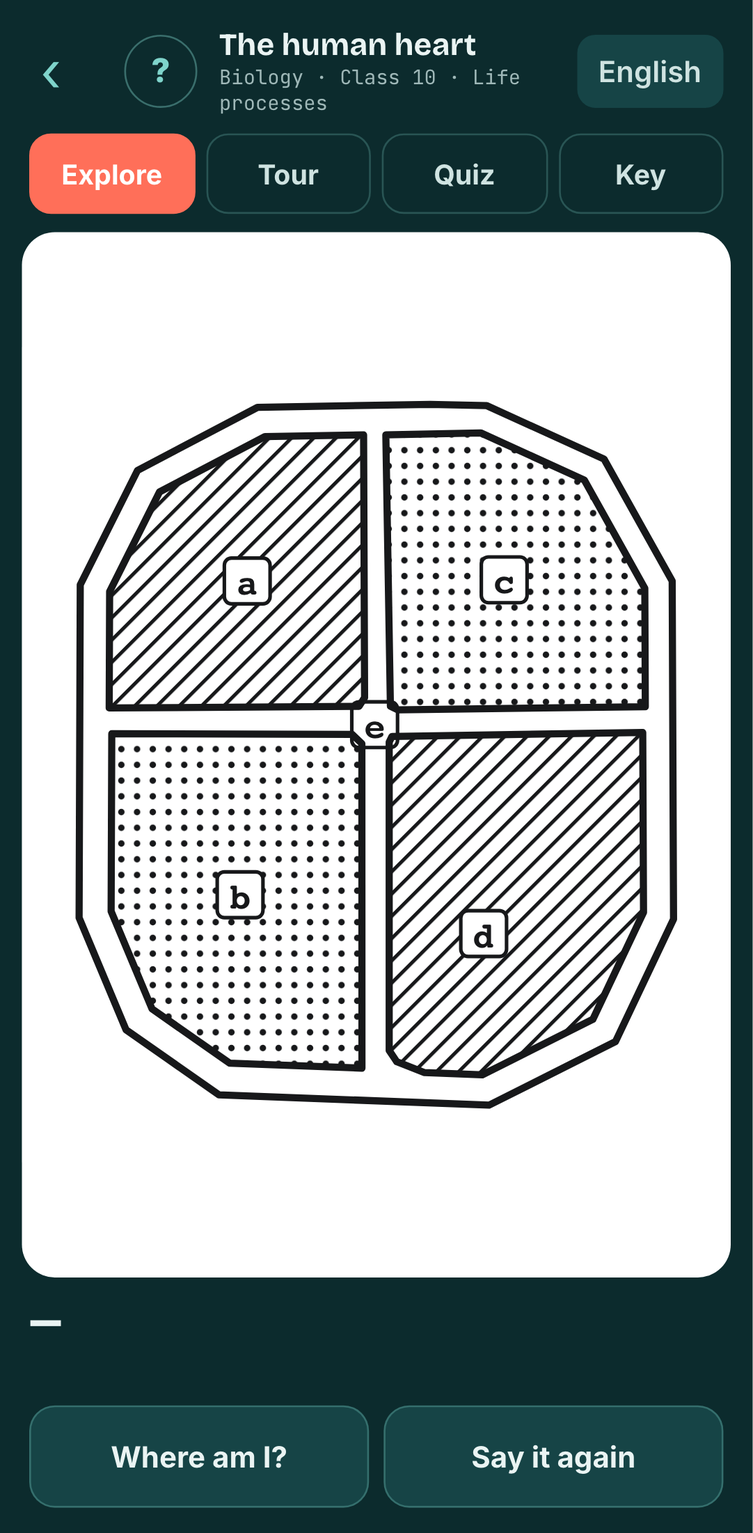
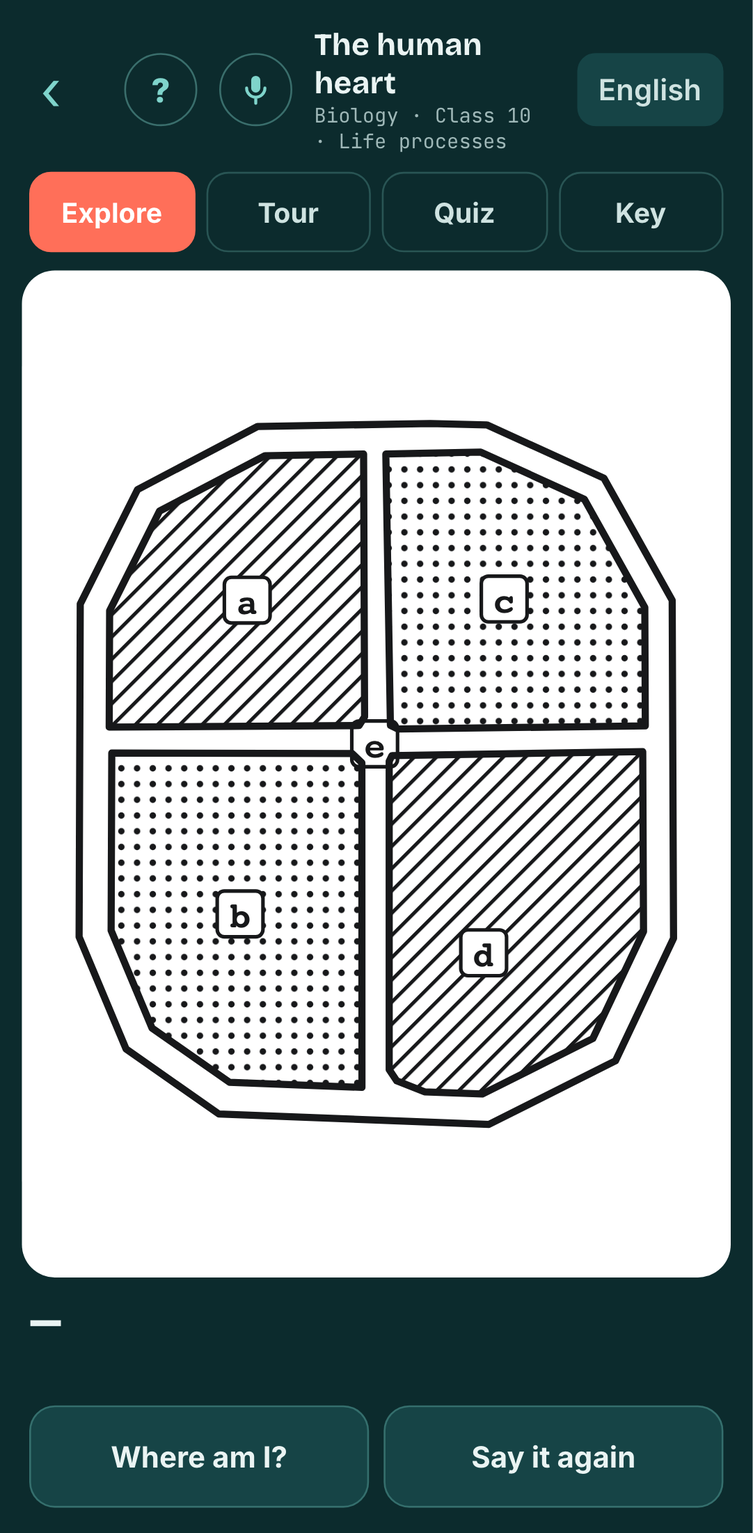
Spoken commands: hold two fingers or the mic

Changed region(s): [[0.0915, 0.247, 0.915, 0.7411], [0.0305, 0.0, 0.976, 0.1853]]

diff --git a/app/src/i18n/strings.ts b/app/src/i18n/strings.ts
@@ -23,7 +23,7 @@ type Dict = {
   textures: Record<Texture, string>
   samples: string; mine: string; nothingYet: string; importFile: string; tapToOpen: string
   bestScore: (found: number, total: number) => string
-  touchToStart: string; touchAgain: string; tagline: string; g1: string; g2: string; g3: string; g4: string; intro: string; help: string; gestures: string; modeIs: (m: string) => string; speakFirst: string; speakFirstOn: string; speakFirstOff: string; soundOn: string; soundOff: string; sound: string; contrast: string; contrastOn: string; contrastOff: string
+  listening: string; notHeard: string; voiceNeedsNet: string; voiceHelp: string; touchToStart: string; touchAgain: string; tagline: string; g1: string; g2: string; g3: string; g4: string; intro: string; help: string; gestures: string; modeIs: (m: string) => string; speakFirst: string; speakFirstOn: string; speakFirstOff: string; soundOn: string; soundOff: string; sound: string; contrast: string; contrastOn: string; contrastOff: string
   classRoom: string; joinClass: string; roomCode: string; whoAreYou: string; thisIsMe: string; notMe: string; waitingRoster: string; joinedRoom: (room: string) => string; youAre: (name: string) => string
 }
 
@@ -50,9 +50,9 @@ const en: Dict = {
   textures: { dots: 'dots', 'diagonal-lines': 'diagonal lines', 'horizontal-lines': 'horizontal lines', grid: 'grid', solid: 'solid', empty: 'outline' },
   samples: 'Sample diagrams', mine: 'From my teacher', nothingYet: 'Nothing from your teacher yet. Join the class with the code on the board, or start with a sample.', importFile: 'Open a diagram file', tapToOpen: 'Tap to open',
   bestScore: (f, t) => `best ${f} of ${t}`,
-  touchToStart: 'Touch anywhere to start', touchAgain: 'Touch again to begin', tagline: 'Diagrams you can touch, hear and be quizzed on.', g1: 'One finger: feel the parts. Rest to hear.', g2: 'Two fingers, swipe: change mode.', g3: 'Two fingers, double-tap: where am I.', g4: 'Three fingers, tap: change language.',
-  intro: 'TouchSight. Touch anything once to hear what it is, touch it again to use it. On a diagram, move one finger to feel the parts; rest it to hear the name. Swipe with two fingers to change between explore, tour, quiz and key. Double-tap with two fingers to hear where you are. Tap with three fingers to change the language.',
-  help: 'Help', gestures: 'Two fingers swipe: change mode. Two fingers double-tap: where am I. Three fingers tap: change language.',
+  listening: 'Listening.', notHeard: 'I did not catch that.', voiceNeedsNet: 'Voice needs a network connection. The gestures work offline.', voiceHelp: 'Say: where am I, what does it do, explore, tour, quiz, key, repeat, next, previous, library, Hindi, Punjabi, English.', touchToStart: 'Touch anywhere to start', touchAgain: 'Touch again to begin', tagline: 'Diagrams you can touch, hear and be quizzed on.', g1: 'One finger: feel the parts. Rest to hear.', g2: 'Two fingers, swipe: change mode. Hold: speak a command.', g3: 'Two fingers, double-tap: where am I.', g4: 'Three fingers, tap: change language.',
+  intro: 'TouchSight. Touch anything once to hear what it is, touch it again to use it. On a diagram, move one finger to feel the parts; rest it to hear the name, keep resting to hear what it does. Swipe with two fingers to change between explore, tour, quiz and key. Double-tap with two fingers to hear where you are. Hold two fingers still to speak a command. Tap with three fingers to change the language.',
+  help: 'Help', gestures: 'Two fingers swipe: change mode. Two fingers double-tap: where am I. Two fingers held: speak a command. Three fingers tap: change language.',
   modeIs: (m) => `${m}.`, speakFirst: 'Touch to hear first', speakFirstOn: 'Touch to hear first is on. Touch once to hear, twice to use.', speakFirstOff: 'Touch to hear first is off. Controls act on the first touch.',
   sound: 'Sound', soundOn: 'Sound on. A tone follows your finger: higher up the sheet, higher the note. Each texture has its own voice.', soundOff: 'Sound off.',
   contrast: 'High contrast', contrastOn: 'High contrast on.', contrastOff: 'High contrast off.',
@@ -80,7 +80,7 @@ const hi: Dict = {
   textures: { dots: 'बिंदु', 'diagonal-lines': 'तिरछी रेखाएँ', 'horizontal-lines': 'आड़ी रेखाएँ', grid: 'जाली', solid: 'भरा हुआ', empty: 'रूपरेखा' },
   samples: 'नमूना आरेख', mine: 'मेरे शिक्षक से', nothingYet: 'शिक्षक से अभी कुछ नहीं आया। बोर्ड पर लिखे कोड से कक्षा से जुड़ें, या नमूने से शुरू करें।', importFile: 'आरेख फ़ाइल खोलें', tapToOpen: 'खोलने के लिए छुएँ',
   bestScore: (f, t) => `सर्वश्रेष्ठ ${t} में से ${f}`,
-  touchToStart: 'शुरू करने के लिए कहीं भी छुएँ', touchAgain: 'शुरू करने के लिए फिर छुएँ', tagline: 'आरेख जिन्हें आप छू सकें, सुन सकें और जिन पर प्रश्न हल कर सकें।', g1: 'एक उँगली: हिस्से महसूस करें। रुकें, सुनें।', g2: 'दो उँगलियाँ, स्वाइप: मोड बदलें।', g3: 'दो उँगलियाँ, दो बार: मैं कहाँ हूँ।', g4: 'तीन उँगलियाँ, छुएँ: भाषा बदलें।',
+  listening: 'सुन रहा हूँ।', notHeard: 'समझ नहीं आया।', voiceNeedsNet: 'आवाज़ के लिए नेटवर्क चाहिए। इशारे बिना नेटवर्क चलते हैं।', voiceHelp: 'कहें: मैं कहाँ हूँ, यह क्या करता है, छुएँ, सैर, प्रश्न, कुंजी, दोबारा, अगला, पिछला, पुस्तकालय, हिंदी, पंजाबी, अंग्रेज़ी।', touchToStart: 'शुरू करने के लिए कहीं भी छुएँ', touchAgain: 'शुरू करने के लिए फिर छुएँ', tagline: 'आरेख जिन्हें आप छू सकें, सुन सकें और जिन पर प्रश्न हल कर सकें।', g1: 'एक उँगली: हिस्से महसूस करें। रुकें, सुनें।', g2: 'दो उँगलियाँ, स्वाइप: मोड बदलें। दबाए रखें: बोलकर कहें।', g3: 'दो उँगलियाँ, दो बार: मैं कहाँ हूँ।', g4: 'तीन उँगलियाँ, छुएँ: भाषा बदलें।',
   intro: 'टचसाइट। किसी भी चीज़ को एक बार छुएँ और सुनें कि वह क्या है, फिर से छुएँ और उसे इस्तेमाल करें। आरेख पर एक उँगली घुमाएँ और हिस्सों को महसूस करें; रुकें तो नाम सुनाई देगा। दो उँगलियों से स्वाइप करें: छुएँ, सैर, प्रश्न और कुंजी के बीच बदलें। दो उँगलियों से दो बार छुएँ: मैं कहाँ हूँ। तीन उँगलियों से छुएँ: भाषा बदलें।',
   help: 'मदद', gestures: 'दो उँगली स्वाइप: मोड बदलें। दो उँगली दो बार: मैं कहाँ हूँ। तीन उँगली: भाषा बदलें।',
   modeIs: (m) => `${m}।`, speakFirst: 'पहले सुनें', speakFirstOn: 'पहले सुनें चालू। एक बार छुएँ सुनें, दो बार छुएँ इस्तेमाल करें।', speakFirstOff: 'पहले सुनें बंद। पहली छुअन पर ही काम होगा।',
@@ -110,7 +110,7 @@ const pa: Dict = {
   textures: { dots: 'ਬਿੰਦੀਆਂ', 'diagonal-lines': 'ਤਿਰਛੀਆਂ ਲਕੀਰਾਂ', 'horizontal-lines': 'ਲੇਟਵੀਆਂ ਲਕੀਰਾਂ', grid: 'ਜਾਲੀ', solid: 'ਭਰਿਆ ਹੋਇਆ', empty: 'ਰੂਪ-ਰੇਖਾ' },
   samples: 'ਨਮੂਨਾ ਚਿੱਤਰ', mine: 'ਮੇਰੇ ਅਧਿਆਪਕ ਤੋਂ', nothingYet: 'ਅਧਿਆਪਕ ਤੋਂ ਹਾਲੇ ਕੁਝ ਨਹੀਂ ਆਇਆ। ਬੋਰਡ ਉੱਤੇ ਲਿਖੇ ਕੋਡ ਨਾਲ ਜਮਾਤ ਨਾਲ ਜੁੜੋ, ਜਾਂ ਨਮੂਨੇ ਤੋਂ ਸ਼ੁਰੂ ਕਰੋ।', importFile: 'ਚਿੱਤਰ ਫ਼ਾਈਲ ਖੋਲ੍ਹੋ', tapToOpen: 'ਖੋਲ੍ਹਣ ਲਈ ਛੂਹੋ',
   bestScore: (f, t) => `ਵਧੀਆ ${t} ਵਿੱਚੋਂ ${f}`,
-  touchToStart: 'ਸ਼ੁਰੂ ਕਰਨ ਲਈ ਕਿਤੇ ਵੀ ਛੂਹੋ', touchAgain: 'ਸ਼ੁਰੂ ਕਰਨ ਲਈ ਫਿਰ ਛੂਹੋ', tagline: 'ਚਿੱਤਰ ਜੋ ਤੁਸੀਂ ਛੂਹ, ਸੁਣ ਅਤੇ ਕੁਇਜ਼ ਕਰ ਸਕੋ।', g1: 'ਇੱਕ ਉਂਗਲ: ਹਿੱਸੇ ਮਹਿਸੂਸ ਕਰੋ। ਰੁਕੋ, ਸੁਣੋ।', g2: 'ਦੋ ਉਂਗਲਾਂ, ਸਵਾਈਪ: ਮੋਡ ਬਦਲੋ।', g3: 'ਦੋ ਉਂਗਲਾਂ, ਦੋ ਵਾਰ: ਮੈਂ ਕਿੱਥੇ ਹਾਂ।', g4: 'ਤਿੰਨ ਉਂਗਲਾਂ, ਛੂਹੋ: ਭਾਸ਼ਾ ਬਦਲੋ।',
+  listening: 'ਸੁਣ ਰਿਹਾ ਹਾਂ।', notHeard: 'ਸਮਝ ਨਹੀਂ ਆਇਆ।', voiceNeedsNet: 'ਆਵਾਜ਼ ਲਈ ਨੈੱਟਵਰਕ ਚਾਹੀਦਾ ਹੈ। ਇਸ਼ਾਰੇ ਬਿਨਾਂ ਨੈੱਟਵਰਕ ਚੱਲਦੇ ਹਨ।', voiceHelp: 'ਕਹੋ: ਮੈਂ ਕਿੱਥੇ ਹਾਂ, ਇਹ ਕੀ ਕਰਦਾ ਹੈ, ਛੂਹੋ, ਸੈਰ, ਕੁਇਜ਼, ਕੁੰਜੀ, ਫਿਰ, ਅਗਲਾ, ਪਿਛਲਾ, ਲਾਇਬ੍ਰੇਰੀ, ਹਿੰਦੀ, ਪੰਜਾਬੀ, ਅੰਗਰੇਜ਼ੀ।', touchToStart: 'ਸ਼ੁਰੂ ਕਰਨ ਲਈ ਕਿਤੇ ਵੀ ਛੂਹੋ', touchAgain: 'ਸ਼ੁਰੂ ਕਰਨ ਲਈ ਫਿਰ ਛੂਹੋ', tagline: 'ਚਿੱਤਰ ਜੋ ਤੁਸੀਂ ਛੂਹ, ਸੁਣ ਅਤੇ ਕੁਇਜ਼ ਕਰ ਸਕੋ।', g1: 'ਇੱਕ ਉਂਗਲ: ਹਿੱਸੇ ਮਹਿਸੂਸ ਕਰੋ। ਰੁਕੋ, ਸੁਣੋ।', g2: 'ਦੋ ਉਂਗਲਾਂ, ਸਵਾਈਪ: ਮੋਡ ਬਦਲੋ। ਦਬਾ ਕੇ ਰੱਖੋ: ਬੋਲ ਕੇ ਕਹੋ।', g3: 'ਦੋ ਉਂਗਲਾਂ, ਦੋ ਵਾਰ: ਮੈਂ ਕਿੱਥੇ ਹਾਂ।', g4: 'ਤਿੰਨ ਉਂਗਲਾਂ, ਛੂਹੋ: ਭਾਸ਼ਾ ਬਦਲੋ।',
   intro: 'ਟੱਚਸਾਈਟ। ਕਿਸੇ ਵੀ ਚੀਜ਼ ਨੂੰ ਇੱਕ ਵਾਰ ਛੂਹੋ ਤੇ ਸੁਣੋ ਕਿ ਉਹ ਕੀ ਹੈ, ਫਿਰ ਛੂਹੋ ਤੇ ਵਰਤੋ। ਚਿੱਤਰ ਉੱਤੇ ਇੱਕ ਉਂਗਲ ਘੁਮਾਓ ਤੇ ਹਿੱਸੇ ਮਹਿਸੂਸ ਕਰੋ; ਰੁਕੋ ਤਾਂ ਨਾਮ ਸੁਣੋਗੇ। ਦੋ ਉਂਗਲਾਂ ਨਾਲ ਸਵਾਈਪ ਕਰੋ: ਛੂਹੋ, ਸੈਰ, ਕੁਇਜ਼ ਤੇ ਕੁੰਜੀ ਵਿਚਕਾਰ ਬਦਲੋ। ਦੋ ਉਂਗਲਾਂ ਨਾਲ ਦੋ ਵਾਰ ਛੂਹੋ: ਮੈਂ ਕਿੱਥੇ ਹਾਂ। ਤਿੰਨ ਉਂਗਲਾਂ ਨਾਲ ਛੂਹੋ: ਭਾਸ਼ਾ ਬਦਲੋ।',
   help: 'ਮਦਦ', gestures: 'ਦੋ ਉਂਗਲਾਂ ਸਵਾਈਪ: ਮੋਡ ਬਦਲੋ। ਦੋ ਉਂਗਲਾਂ ਦੋ ਵਾਰ: ਮੈਂ ਕਿੱਥੇ ਹਾਂ। ਤਿੰਨ ਉਂਗਲਾਂ: ਭਾਸ਼ਾ ਬਦਲੋ।',
   modeIs: (m) => `${m}।`, speakFirst: 'ਪਹਿਲਾਂ ਸੁਣੋ', speakFirstOn: 'ਪਹਿਲਾਂ ਸੁਣੋ ਚਾਲੂ। ਇੱਕ ਵਾਰ ਛੂਹੋ ਸੁਣੋ, ਦੋ ਵਾਰ ਛੂਹੋ ਵਰਤੋ।', speakFirstOff: 'ਪਹਿਲਾਂ ਸੁਣੋ ਬੰਦ। ਪਹਿਲੀ ਛੋਹ ਤੇ ਹੀ ਕੰਮ ਹੋਵੇਗਾ।',

diff --git a/app/src/routes/student/Explore.tsx b/app/src/routes/student/Explore.tsx
@@ -15,6 +15,8 @@ import { mirror } from '../../student/mirror'
 import { classroom, studentProfile } from '../../class/classroom'
 import { useTouchToAct, useGestures, type Gesture } from '../../student/a11y'
 import { sound } from '../../device/sound'
+import { listenOnce, matchCommand, voiceSupported } from '../../device/voice'
+import { useNavigate } from 'react-router-dom'
 import { diagramBox } from '../../tdm/geometry'
 
 type Mode = 'explore' | 'tour' | 'quiz' | 'key'
@@ -38,6 +40,8 @@ export function Explore() {
   const wrap = useRef<HTMLDivElement>(null)
   const mainRef = useRef<HTMLElement>(null)
   const { handle, armed } = useTouchToAct(lang)
+  const nav = useNavigate()
+  const [listening, setListening] = useState(false)
   const st = useRef(createState())
   const pending = useRef<number | null>(null)
   const pending2 = useRef<number | null>(null)
@@ -222,9 +226,48 @@ export function Explore() {
       log('gesture', `${g} → ${m}`)
       if (m === 'quiz') startQuiz(); else { pauseTour(); hush(); setMode(m); setFocus(null); say(s.modeIs(s[m])) }
     } else if (g === 'double-tap-2') { log('gesture', 'where am I'); whereAmI() }
+    else if (g === 'hold-2') { log('gesture', 'hold → listen'); listen() }
     else if (g === 'tap-3') { const n: Lang = lang === 'en' ? 'hi' : lang === 'hi' ? 'pa' : 'en'; log('gesture', `language ${n}`); setLang(n); speak(LANG_NAME[n], n) }
   }
-  const rec = useGestures(mainRef, (g) => gestureRef.current(g))
+  const rec = useGestures(mainRef, (g) => gestureRef.current(g), !!tdm)
+
+  // ---- spoken commands: hold two fingers, or the mic button
+  const runCommand = (c: ReturnType<typeof matchCommand>) => {
+    if (!tdm) return
+    switch (c) {
+      case 'where': whereAmI(); break
+      case 'explain': { const f = focus ?? st.current.id; const r = f ? tdm.regions.find((x) => x.id === f) : null; const m = r ? (r.meanings?.[lang] ?? r.meaning) : null; say(m ?? (f ? describeFully(tdm, f, lang) : s.blank)); break }
+      case 'explore': case 'tour': case 'key': pauseTour(); hush(); setMode(c); setFocus(null); say(s.modeIs(s[c])); break
+      case 'quiz': startQuiz(); break
+      case 'repeat': if (caption) say(caption); break
+      case 'next': jump(1); break
+      case 'previous': jump(-1); break
+      case 'play': if (mode === 'tour') playFrom(ti < 0 ? -1 : ti); break
+      case 'pause': pauseTour(); break
+      case 'skip': if (mode === 'quiz') skip(); break
+      case 'library': nav('/student'); break
+      case 'help': say(s.voiceHelp); break
+      case 'lang-en': setLang('en'); speak(LANG_NAME.en, 'en'); break
+      case 'lang-hi': setLang('hi'); speak(LANG_NAME.hi, 'hi'); break
+      case 'lang-pa': setLang('pa'); speak(LANG_NAME.pa, 'pa'); break
+      default: say(s.notHeard)
+    }
+  }
+  const listen = async () => {
+    if (listening) return
+    if (!voiceSupported()) { say(s.voiceHelp); return }
+    if (!navigator.onLine) { say(s.voiceNeedsNet); return }
+    stopSpeech(); hush(); sound.lift(); setListening(true); vibrate([20, 40, 20])
+    log('voice', 'listening')
+    const heard = await listenOnce(lang, (st2) => setListening(st2 === 'listening'))
+    setListening(false)
+    log('voice', heard ?? '(nothing)')
+    if (!heard) { say(s.notHeard); return }
+    const c = matchCommand(heard)
+    log('voice', `→ ${c ?? 'no match'}`)
+    runCommand(c)
+  }
+  useEffect(() => { (window as unknown as { __tsVoice?: (phrase: string) => void }).__tsVoice = (phrase) => runCommand(matchCommand(phrase)) })
   useEffect(() => { (window as unknown as { __tsGesture?: (g: Gesture) => void }).__tsGesture = (g) => gestureRef.current(g) }, [])
 
   if (!tdm) return <main className="st"><p className="st-empty">…</p></main>
@@ -236,6 +279,9 @@ export function Explore() {
       <header className="st-head">
         <Link to="/student" className="st-back" aria-label={s.library}>‹</Link>
         <button className="st-help" aria-label={s.help} onClick={() => say(s.gestures)}>?</button>
+        <button className={`st-mic ${listening ? 'on' : ''} ${armed === 'mic' ? 'armed' : ''}`} aria-label={s.listening} onClick={handle('mic', s.voiceHelp, listen)}>
+          <svg viewBox="0 0 24 24" width="20" height="20" aria-hidden><rect x="9" y="3" width="6" height="11" rx="3" fill="currentColor" /><path d="M6 11a6 6 0 0 0 12 0M12 17v4" fill="none" stroke="currentColor" strokeWidth="2" strokeLinecap="round" /></svg>
+        </button>
         <div className="st-title"><b>{nameIn({ en: tdm.title }, lang)}</b><span className="mono">{tdm.subject}</span></div>
         <button className="st-lang" onClick={() => { const n: Lang = lang === 'en' ? 'hi' : lang === 'hi' ? 'pa' : 'en'; setLang(n); speak(LANG_NAME[n], n) }} aria-label={s.language}>{LANG_NAME[lang]}</button>
       </header>

diff --git a/app/src/device/voice.ts b/app/src/device/voice.ts
@@ -1,0 +1,55 @@
+import type { Lang } from '../tdm/types'
+
+/**
+ * Spoken commands. Web Speech recognition on Android runs on Google's servers, so this needs a network; the touch
+ * gestures do the same jobs offline. One phrase per listen, matched against short command lists in three languages.
+ */
+export type Command = 'where' | 'explain' | 'explore' | 'tour' | 'quiz' | 'key' | 'repeat' | 'library' | 'help' | 'next' | 'previous' | 'play' | 'pause' | 'skip' | 'lang-en' | 'lang-hi' | 'lang-pa'
+
+type Rec = { lang: string; interimResults: boolean; maxAlternatives: number; continuous: boolean; onresult: ((e: { results: ArrayLike<ArrayLike<{ transcript: string }>> }) => void) | null; onerror: ((e: { error: string }) => void) | null; onend: (() => void) | null; start(): void; stop(): void; abort(): void }
+const Ctor = (): (new () => Rec) | null => { const w = window as unknown as { SpeechRecognition?: new () => Rec; webkitSpeechRecognition?: new () => Rec }; return w.SpeechRecognition ?? w.webkitSpeechRecognition ?? null }
+export const voiceSupported = () => typeof window !== 'undefined' && !!Ctor()
+const TAG: Record<Lang, string> = { en: 'en-IN', hi: 'hi-IN', pa: 'pa-IN' }
+
+const WORDS: Record<Command, string[]> = {
+  where: ['where am i', 'where', 'kahan hoon', 'kahan hun', 'main kahan', 'मैं कहाँ', 'कहाँ हूँ', 'ਮੈਂ ਕਿੱਥੇ', 'ਕਿੱਥੇ ਹਾਂ', 'kithe'],
+  explain: ['what does it do', 'what is this', 'explain', 'function', 'yeh kya hai', 'kya karta', 'यह क्या', 'क्या करता', 'समझाओ', 'ਇਹ ਕੀ', 'ਕੀ ਕਰਦਾ', 'ਸਮਝਾਓ'],
+  explore: ['explore', 'touch', 'छुएँ', 'ਛੂਹੋ', 'chhuo', 'explore mode'],
+  tour: ['tour', 'सैर', 'ਸੈਰ', 'sair', 'take me around'],
+  quiz: ['quiz', 'test me', 'question', 'प्रश्न', 'ਕੁਇਜ਼', 'prashn', 'sawal'],
+  key: ['key', 'braille', 'कुंजी', 'ਕੁੰਜੀ', 'kunji', 'legend'],
+  repeat: ['repeat', 'again', 'say it again', 'फिर', 'दोबारा', 'ਫਿਰ', 'dobara', 'phir'],
+  library: ['library', 'back', 'go back', 'home', 'पुस्तकालय', 'वापस', 'ਲਾਇਬ੍ਰੇਰੀ', 'ਵਾਪਸ', 'wapas'],
+  help: ['help', 'मदद', 'ਮਦਦ', 'madad', 'what can i say'],
+  next: ['next', 'अगला', 'ਅਗਲਾ', 'agla'],
+  previous: ['previous', 'पिछला', 'ਪਿਛਲਾ', 'pichla'],
+  play: ['play', 'start', 'चलाओ', 'ਚਲਾਓ', 'chalao'],
+  pause: ['pause', 'stop', 'रोको', 'ਰੋਕੋ', 'roko'],
+  skip: ['skip', 'छोड़ो', 'ਛੱਡੋ', 'chhodo'],
+  'lang-en': ['english', 'अंग्रेज़ी', 'ਅੰਗਰੇਜ਼ੀ', 'angrezi'],
+  'lang-hi': ['hindi', 'हिंदी', 'हिन्दी', 'ਹਿੰਦੀ'],
+  'lang-pa': ['punjabi', 'पंजाबी', 'ਪੰਜਾਬੀ'],
+}
+export function matchCommand(said: string): Command | null {
+  const t = said.toLowerCase().trim()
+  let best: { c: Command; len: number } | null = null
+  for (const [c, words] of Object.entries(WORDS) as [Command, string[]][]) for (const w of words) if (t.includes(w) && (!best || w.length > best.len)) best = { c, len: w.length }
+  return best?.c ?? null
+}
+
+/** Listen once; resolves with the phrase heard, or null on silence, denial or no network. */
+export function listenOnce(lang: Lang, onState?: (s: 'listening' | 'done') => void): Promise<string | null> {
+  const C = Ctor()
+  if (!C) return Promise.resolve(null)
+  return new Promise((resolve) => {
+    const r = new C()
+    r.lang = TAG[lang]; r.interimResults = false; r.maxAlternatives = 3; r.continuous = false
+    let done = false
+    const finish = (v: string | null) => { if (!done) { done = true; onState?.('done'); resolve(v) } }
+    r.onresult = (e) => { const alts = Array.from(e.results[0] ?? [], (a) => a.transcript); finish(alts.join(' | ')) }
+    r.onerror = () => finish(null)
+    r.onend = () => finish(null)
+    try { r.start(); onState?.('listening') } catch { finish(null) }
+    setTimeout(() => { try { r.stop() } catch { /* ignore */ } finish(null) }, 6000)
+  })
+}

diff --git a/app/src/student/a11y.ts b/app/src/student/a11y.ts
@@ -47,11 +47,11 @@ export function useTouchToAct(lang: Lang) {
   return { handle, armed, on }
 }
 
-export type Gesture = 'swipe-left' | 'swipe-right' | 'double-tap-2' | 'tap-3'
+export type Gesture = 'swipe-left' | 'swipe-right' | 'double-tap-2' | 'tap-3' | 'hold-2'
 
 /** Pure recogniser for multi-finger gestures, so it can be tested without a touchscreen. */
 export class GestureRecognizer {
-  private startX = 0; private startY = 0; private startN = 0; private startT = 0; private moved = false
+  private startX = 0; private startY = 0; private startN = 0; private startT = 0; moved = false
   private lastTwoTap = -1e9
   /** fingers currently down, read by the explorer to pause single-finger reading during a gesture */
   fingers = 0
@@ -79,7 +79,7 @@ export class GestureRecognizer {
 const avg = (ts: { x: number; y: number }[], k: 'x' | 'y') => ts.reduce((a, t) => a + t[k], 0) / ts.length
 
 /** Binds the recogniser to an element's touch events. */
-export function useGestures(ref: React.RefObject<HTMLElement | null>, on: (g: Gesture) => void) {
+export function useGestures(ref: React.RefObject<HTMLElement | null>, on: (g: Gesture) => void, ready = true) {
   const rec = useRef(new GestureRecognizer())
   const cb = useRef(on); cb.current = on
   useEffect(() => {
@@ -89,8 +89,14 @@ export function useGestures(ref: React.RefObject<HTMLElement | null>, on: (g: Ge
     const start = (e: TouchEvent) => { rec.current.start(pts(e), performance.now()); if (e.touches.length >= 2) e.preventDefault() }
     const move = (e: TouchEvent) => { rec.current.move(pts(e)); if (e.touches.length >= 2) e.preventDefault() }
     const end = (e: TouchEvent) => { const g = rec.current.end(e.touches.length, performance.now()); if (g) cb.current(g) }
-    el.addEventListener('touchstart', start, { passive: false }); el.addEventListener('touchmove', move, { passive: false }); el.addEventListener('touchend', end); el.addEventListener('touchcancel', end)
-    return () => { el.removeEventListener('touchstart', start); el.removeEventListener('touchmove', move); el.removeEventListener('touchend', end); el.removeEventListener('touchcancel', end) }
-  }, [ref])
+    // two fingers held still for a moment: listen for a spoken command
+    let hold: number | null = null
+    const clearHold = () => { if (hold) { clearTimeout(hold); hold = null } }
+    const start2 = (e: TouchEvent) => { start(e); clearHold(); if (e.touches.length === 2) hold = window.setTimeout(() => { hold = null; cb.current('hold-2') }, 700) }
+    const move2 = (e: TouchEvent) => { move(e); if (rec.current['moved']) clearHold() }
+    const end2 = (e: TouchEvent) => { clearHold(); end(e) }
+    el.addEventListener('touchstart', start2, { passive: false }); el.addEventListener('touchmove', move2, { passive: false }); el.addEventListener('touchend', end2); el.addEventListener('touchcancel', end2)
+    return () => { clearHold(); el.removeEventListener('touchstart', start2); el.removeEventListener('touchmove', move2); el.removeEventListener('touchend', end2); el.removeEventListener('touchcancel', end2) }
+  }, [ref, ready])
   return rec
 }

diff --git a/app/src/routes/student/student.css b/app/src/routes/student/student.css
@@ -113,3 +113,7 @@ html.hc .st-card.armed, html.hc .st-import.armed, html.hc .st-modes button.armed
 .st-ring::after { content: ''; position: absolute; inset: -3px; border-radius: 50%; border: 3px solid var(--coral); animation: st-ring 1.8s ease-out infinite; }
 @keyframes st-ring { 0% { transform: scale(1); opacity: .9 } 100% { transform: scale(1.7); opacity: 0 } }
 @media (max-height: 700px) { .st-start-mark { width: 48px; height: 62px } .st-start-brand b { font-size: 34px } .st-gestures li { padding: 9px; font-size: 11.5px } }
+
+.st-mic { width: 40px; height: 40px; border-radius: 50%; border: 1px solid rgba(127,212,203,.4); background: transparent; color: var(--teal-soft); display: grid; place-items: center; }
+.st-mic.on { background: var(--coral); border-color: var(--coral); color: #fff; animation: st-mic 1s ease-in-out infinite; } .st-mic.armed { outline: 3px solid var(--coral); outline-offset: 2px; }
+@keyframes st-mic { 50% { box-shadow: 0 0 0 10px rgba(255,111,89,.25) } }

diff --git a/app/src/student/a11y.test.ts b/app/src/student/a11y.test.ts
@@ -23,3 +23,16 @@ describe('gestures', () => {
     g.start(two(100, 100), 0); g.move(two(110, 300)); g.end(1, 200); expect(g.end(0, 210)).toBeNull()
   })
 })
+
+import { matchCommand } from '../device/voice'
+describe('spoken commands', () => {
+  it('matches English, Hindi, Punjabi and romanised phrases', () => {
+    expect(matchCommand('where am I')).toBe('where')
+    expect(matchCommand('मैं कहाँ हूँ')).toBe('where')
+    expect(matchCommand('main kahan hoon')).toBe('where')
+    expect(matchCommand('what does it do')).toBe('explain')
+    expect(matchCommand('ਕੁਇਜ਼ ਸ਼ੁਰੂ ਕਰੋ')).toBe('quiz')
+    expect(matchCommand('switch to hindi')).toBe('lang-hi')
+    expect(matchCommand('banana')).toBeNull()
+  })
+})

diff --git a/README.md b/README.md
@@ -54,7 +54,8 @@ Three surfaces, one codebase, no server:
   take an audio tour in reading order, be quizzed ("find the left ventricle", the finger is the answer), and read
   the braille key. English, Hindi and Punjabi. Built to be driven without sight: every control speaks on the
   first touch and acts on the second; two-finger swipe changes mode, two-finger double-tap says where the finger
-  is, three-finger tap changes language; a spoken introduction plays on first launch. A sound layer doubles the
+  is, two fingers held still take a spoken command (where am I, what does it do, tour, quiz, key, repeat, next,
+  library, a language), three-finger tap changes language; a spoken introduction plays on first launch. A sound layer doubles the
   haptics on phones without a motor: a tone under the finger whose pitch follows height on the sheet, a timbre per
   texture, a click at every boundary, panned with position. A high-contrast mode (larger type, thicker lines)
   serves low vision.
@@ -146,6 +147,8 @@ are protocols with no recorded runs yet.
   the laptop.
 - **Braille tables** (UEB grade 1, Bharati Hindi and Punjabi via liblouis) have not yet been checked by a braille
   reader.
+- **Spoken commands need a network.** Android's speech recognition runs on a server; the touch gestures do the same
+  jobs offline, so voice is a convenience over them, not the only way.
 
 Full list: [benchmark/LIMITS.md](benchmark/LIMITS.md).
 
